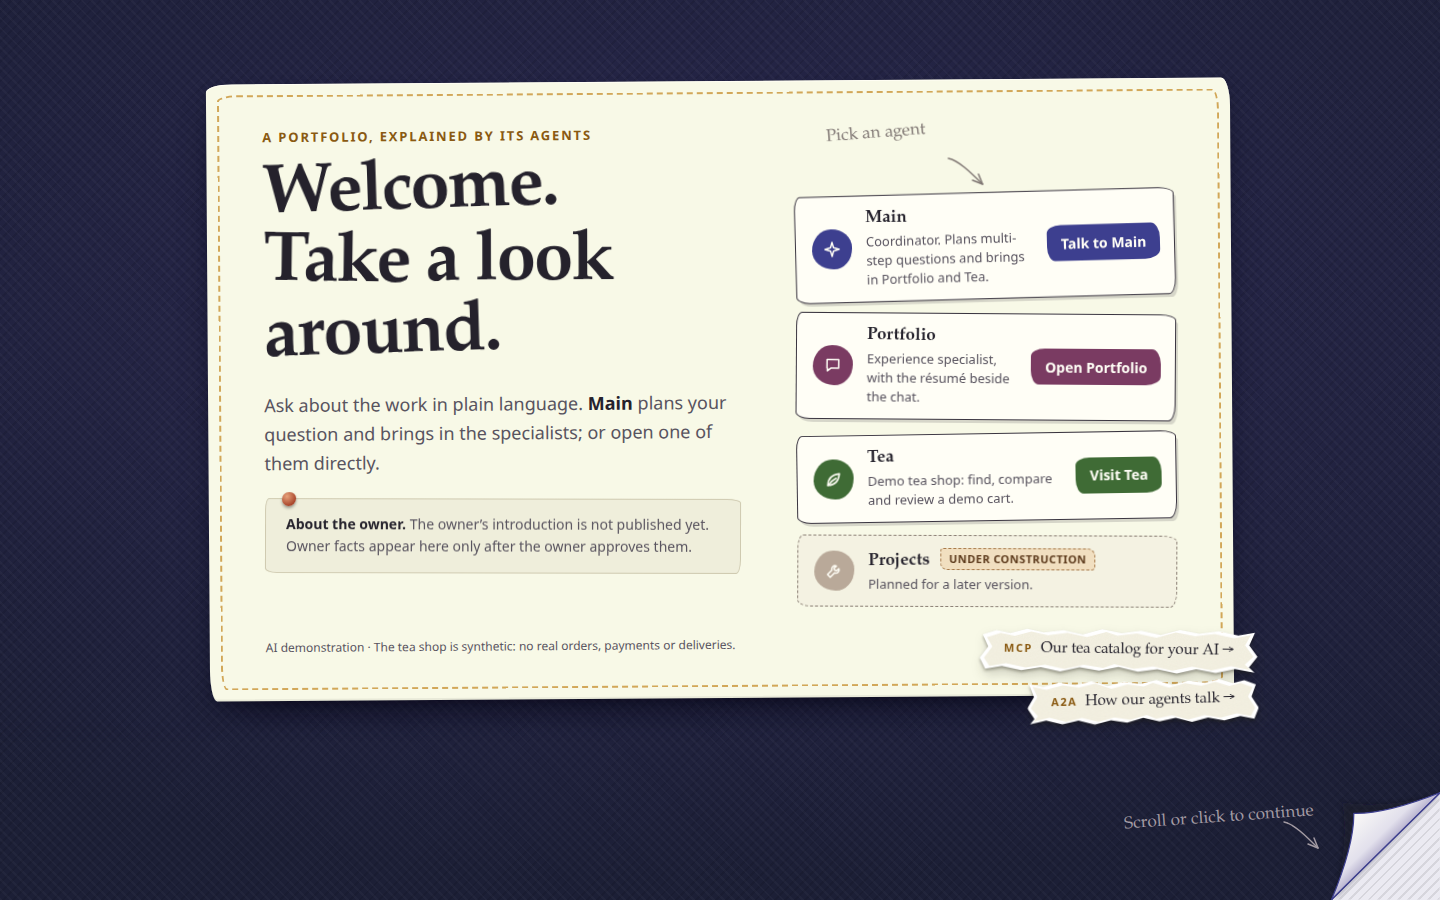
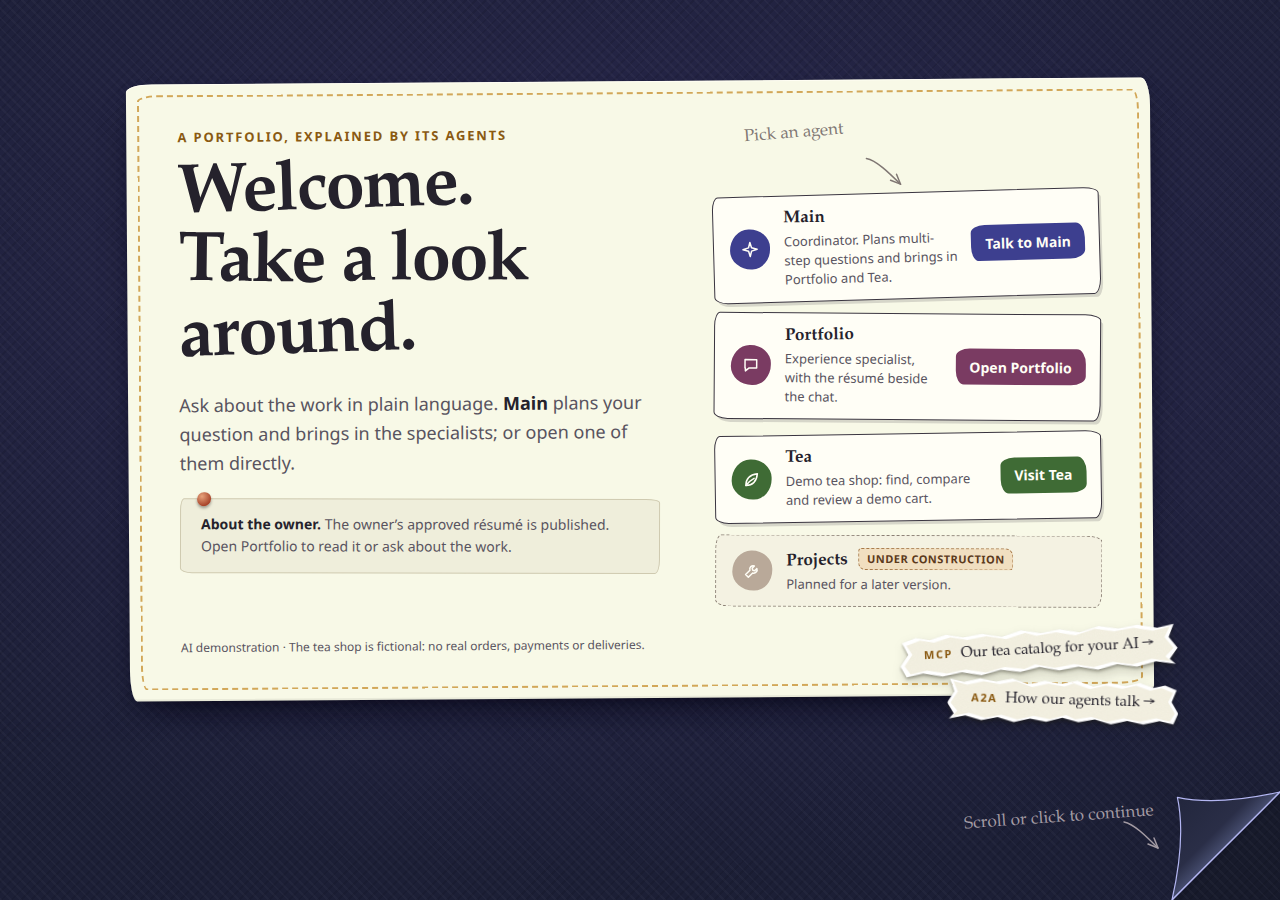
docs: refresh README and product screenshots

diff --git a/README.md b/README.md
@@ -6,11 +6,11 @@
 
 [Visit the website](https://yehor-trepalin.up.railway.app/) · [LinkedIn](https://www.linkedin.com/in/yehor-trepalin/) · [GitHub](https://github.com/yo1am1) · [The engineering](#the-engineering)
 
-I'm Yehor Trepalin. I'm turning my résumé into a website where you can explore my work and ask questions about it. A small cast of agents helps you find your way, and a Tea shop demo gives you something to try.
+I'm Yehor Trepalin. This is my résumé as a website where you can explore my work and ask questions about it. A small cast of agents helps you find your way, and a Tea shop demo gives you something to try.
 
 I've put a lot of work into this project, from the Python services behind a conversation to the way a paper corner moves. I wanted the place to feel handmade: textured fabric, uneven paper edges and notes written in the margins. The same care goes into what happens after you press Send.
 
-> These screenshots show the current staging edition, captured in October 2026. The public website still opens the earlier Tea shop demo. The paper interface and résumé workspace are being prepared for the next release; my approved résumé and owner introduction are not published yet.
+> The paper interface and résumé workspace are live. The Tea shop is a fictional demonstration: its products, prices, policies, carts and tickets are synthetic, with no real orders or payments.
 
 ## Meet the agents
 
@@ -18,19 +18,27 @@ You can start with Main or go straight to a specialist. Each has its own colour 
 
 | Space | What you can explore | A place to start |
 | --- | --- | --- |
-| Main | A coordinator that brings in specialists and keeps their answers together. | "Ask Tea to show me black teas under 8 EUR." |
-| Portfolio | A résumé beside a conversation about experience and skills. The document is awaiting publication; current sample answers are synthetic. | Open the workspace to see the layout. |
+| Main | A coordinator that plans longer requests, brings in specialists and keeps their answers together. | "Ask Tea to show me black teas under 8 EUR." |
+| Portfolio | My published résumé beside a conversation about documented experience, skills and projects. | "Which projects put the documented skills into practice?" |
 | Tea | A demo shop with product search, comparisons, brewing advice and a cart you control. | "Find a caffeine-free tea with citrus notes." |
 
-Projects is planned for a later version. The résumé will live on the website, so there will be one place to find its current version.
+Projects is planned for a later version. For now, Portfolio also answers questions about the projects documented in my résumé.
 
 ### Main brings the right person into the conversation
 
-Ask Main a question that needs Tea, and the specialist's response arrives as a letter with Tea's name on it. You can see who answered while staying in the same conversation.
+For longer requests, Main can show a todo list so you can follow the work. A question that needs Tea or Portfolio brings the specialist's response into the same conversation as a letter with its own name and colour.
 
-![A real staging conversation: Main receives a Tea letter containing black teas under 8 EUR, with product facts and prices](assets/main-delegation.png)
+![Main's completed plan above Tea's specialist letter and two catalog cards](assets/main-delegation.png)
 
-*An actual staging answer to a synthetic test question. The Tea letter and product cards were rendered from the accepted response, without a mocked API.*
+*A live production conversation: Main's completed plan and Tea's own letter with catalog cards. The named reply comes through the app's private Agent-to-Agent (A2A) exchange.*
+
+### The résumé stays beside the question
+
+In [Portfolio](https://yehor-trepalin.up.railway.app/portfolio), you can read my résumé and ask about the part that interests you. “Ask about this” drafts a question about a role, project or skill. Answers point back to the résumé lines they use, and “Show in résumé” takes you to the source.
+
+![Portfolio with the published résumé beside a question and an answer linked to its documented sources](assets/resume-questions.png)
+
+The PDF is available from the same workspace. You can ask for the documented background, compare the skills shown across projects or check what the résumé leaves unanswered.
 
 ### Tea turns a question into something you can inspect
 
@@ -40,21 +48,29 @@ The Tea shop gives the assistant a concrete job. A request about taste, price or
 
 The cart is a separate decision. A proposed change waits for approval before it happens. All catalog entries, prices and shop policies are synthetic; there are no real orders, payments or deliveries.
 
+![Tea proposes a demo cart change and waits for the visitor to choose Approve or Reject](assets/cart-approval.png)
+
+*The human-in-the-loop step: you review the item and quantity before approving. Rejecting leaves the cart unchanged.*
+
 A few more questions to try:
 
 - "Compare two green teas under 10 EUR."
 - "How should I brew an oolong?"
 - "Show me black teas under 8 EUR."
 
+### A support question becomes a ticket you can review
+
+Tea can open an editable support form from a conversation. Review the reason and summary, change the text if needed, then submit it. The saved demo ticket stays with the conversation and is still there after a reload.
+
+![A saved demo support ticket beside the conversation that created it](assets/support-ticket.png)
+
+These tickets stay inside the demonstration; no message is sent to a real support team.
+
 ## Why paper?
 
 Coraline (2009) is the visual reference. I like its handmade textures and the feeling that ordinary objects have a life of their own. That led to the fabric backgrounds, stitched edges and little paper scraps on the welcome page.
 
 The folded corner catches a small gust when it rests. Hovering lifts it further; turning the page plays a few held drawings, then lets the next workspace fade into view. The lettering moves in held poses too. Each agent keeps the same paper language while changing the colour around it.
-
-![Browser recording of the folded corner turning from welcome to Main and back, followed by the page reveal](assets/paper-turn.gif)
-
-*Recorded from the staging website. This is the actual interface, including the page turn and reveal.*
 
 Getting those details right has taken iteration. Notes need room around their arrows. A corner should stay pinned while the paper moves. Scrolling a conversation should let you read its history without accidentally leaving the chat. Keyboard access and reduced-motion settings have to fit that design as well.
 
@@ -63,7 +79,6 @@ Getting those details right has taken iteration. Notes need room around their ar
 
 <p align="center">
   <img src="assets/welcome-mobile.png" width="300" alt="The welcome page at a 390-pixel mobile viewport, with its paper card and pinned folded corner" />
-  <img src="assets/main-mobile.png" width="300" alt="Main at a 390-pixel mobile viewport, with the return corner, suggested questions and message composer" />
 </p>
 
 The welcome card scrolls inside its own area on a small screen. The conversation keeps its composer within reach, and the side panels become drawers.
@@ -92,6 +107,21 @@ Several choices shape the behaviour:
 - Progress and completed answers have different roles. The interface can show work underway while the backend records the accepted final response.
 - Readiness and cancellation are part of the conversation flow. The application handles dependencies waking after inactivity and gives queued work a finite wait.
 
+### Tools for another assistant
+
+The same tea catalog is available through [Tea Catalog MCP](https://yehor-trepalin.up.railway.app/mcp-guide/). Connect a compatible client, such as VS Code, to search products, compare teas, read brewing instructions or look up a shop policy. These tools are read-only; they cannot change a visitor's cart, conversations or tickets.
+
+<details>
+<summary>See the MCP connection guide</summary>
+
+![The Tea Catalog MCP setup guide with its public server address and copyable VS Code configuration](assets/mcp-guide.png)
+
+The guide includes the server address and a copyable client configuration. The connected assistant writes the answer; this server supplies read-only tools and prompts.
+
+</details>
+
+The site's own specialists use a separate, private A2A connection. Their replies keep the original sender attached. [How the agents talk to each other](https://yehor-trepalin.up.railway.app/a2a-guide/) explains that journey; it is not a public agent endpoint.
+
 <details>
 <summary>A view of the system</summary>
 
@@ -116,9 +146,11 @@ This is an overview of the responsibilities. It leaves the private implementatio
 
 The project has Python tests for backend behaviour, frontend tests for state and components, and type and build checks. Browser checks cover the paper interactions, keyboard navigation, small viewports and reduced motion.
 
-In the October 2026 staging checks, both a direct Tea question and a Main-to-Tea request completed against the real services. The interface displayed accepted products and a Tea letter, with no page errors in those runs. The conversation screenshots above come from those checks. Fresh desktop and mobile captures for this README also completed without page errors.
+The conversation screenshots were captured from live production responses in October 2026. The welcome, mobile welcome and MCP setup images come from the matching staging interface. No conversation responses were mocked for these images.
 
-Those are checks of specific flows. They do not establish model accuracy, sustained-load capacity or business results. The résumé content is still awaiting approval, and the shop remains a synthetic demonstration.
+For this update, I checked that a cart stays unchanged before approval, that approval applies the proposed change and that rejection leaves it alone. A submitted support ticket survived reload. The public MCP endpoint completed initialization, exposed its seven tools and answered a read-only category lookup.
+
+These checks cover the shown flows. Model accuracy, sustained-load capacity and business results need separate evidence.
 
 ## Source and contact
 
